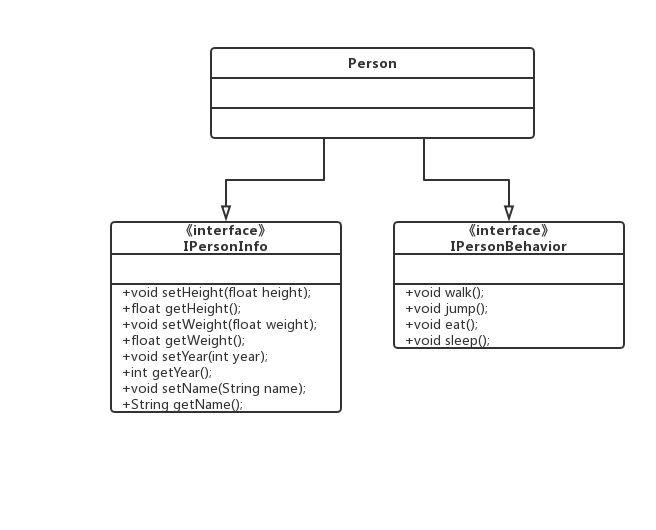
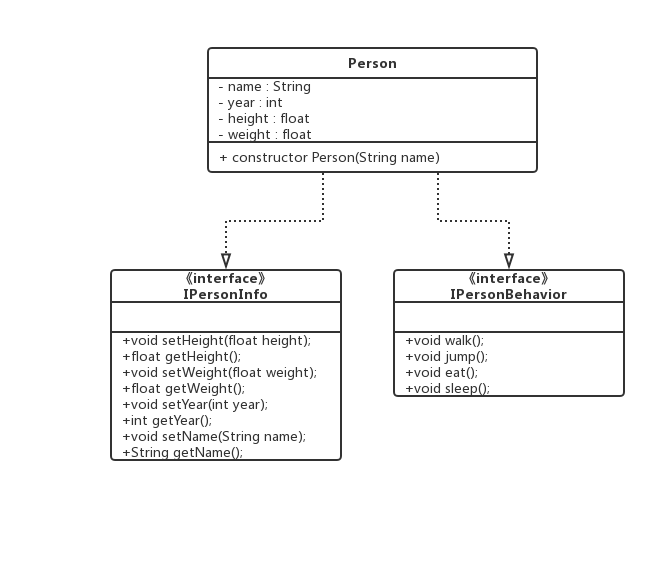
新增OCP筆記連結，修正部分類別圖

Changed region(s): [[0.3049, 0.0604, 0.9756, 0.6943], [0.1524, 0.3321, 0.5183, 0.8151]]

diff --git a/README.md b/README.md
@@ -13,7 +13,7 @@
 | 中文名稱  | 英文名稱  | 筆記  | 實作  |
 | ------------- | ------------- | ------------- |------------- |
 | 單一職責原則  | Single Responsibility Principle, SRP  | [Link](https://github.com/kaiwen180509/Design-Pattern-Practice/blob/master/SOLID/SingleResponsibilityPrinciple/Notes.md "Link") | [Link](https://github.com/kaiwen180509/Design-Pattern-Practice/tree/master/SOLID/SingleResponsibilityPrinciple/Practice "Link") |
-| 開閉原則  | Open/Closed Principle, OCP  | Link | Link  | 
+| 開閉原則  | Open/Closed Principle, OCP  | [Link](https://github.com/kaiwen180509/Design-Pattern-Practice/blob/master/SOLID/OpenClosedPrinciple/Notes.md "Link") | [Link](https://github.com/kaiwen180509/Design-Pattern-Practice/tree/master/SOLID/OpenClosedPrinciple/Practice "Link") |
 | 里氏替換原則  | Liskov Substitution Principle, LSP  | [Link](https://github.com/kaiwen180509/Design-Pattern-Practice/blob/master/SOLID/LiskovSubstitutionPrinciple/Notes.md "Link") | [Link](https://github.com/kaiwen180509/Design-Pattern-Practice/tree/master/SOLID/LiskovSubstitutionPrinciple/Practice "Link") |
 | 迪米特法則<br>( 最少知識原則 ) | Law of Demeter, LoD<br>( Least Knowledge Principle, LKP )  | [Link](https://github.com/kaiwen180509/Design-Pattern-Practice/blob/master/SOLID/LeastKnowledgePrinciple/Notes.md "Link") | [Link](https://github.com/kaiwen180509/Design-Pattern-Practice/tree/master/SOLID/LeastKnowledgePrinciple/Practice "Link") |
 | 介面隔離原則  | Interface Segregation Principle, ISP  | [Link](https://github.com/kaiwen180509/Design-Pattern-Practice/blob/master/SOLID/InterfaceSegregationPrinciple/Notes.md "Link") | [Link](https://github.com/kaiwen180509/Design-Pattern-Practice/tree/master/SOLID/InterfaceSegregationPrinciple/Practice "Link") |
